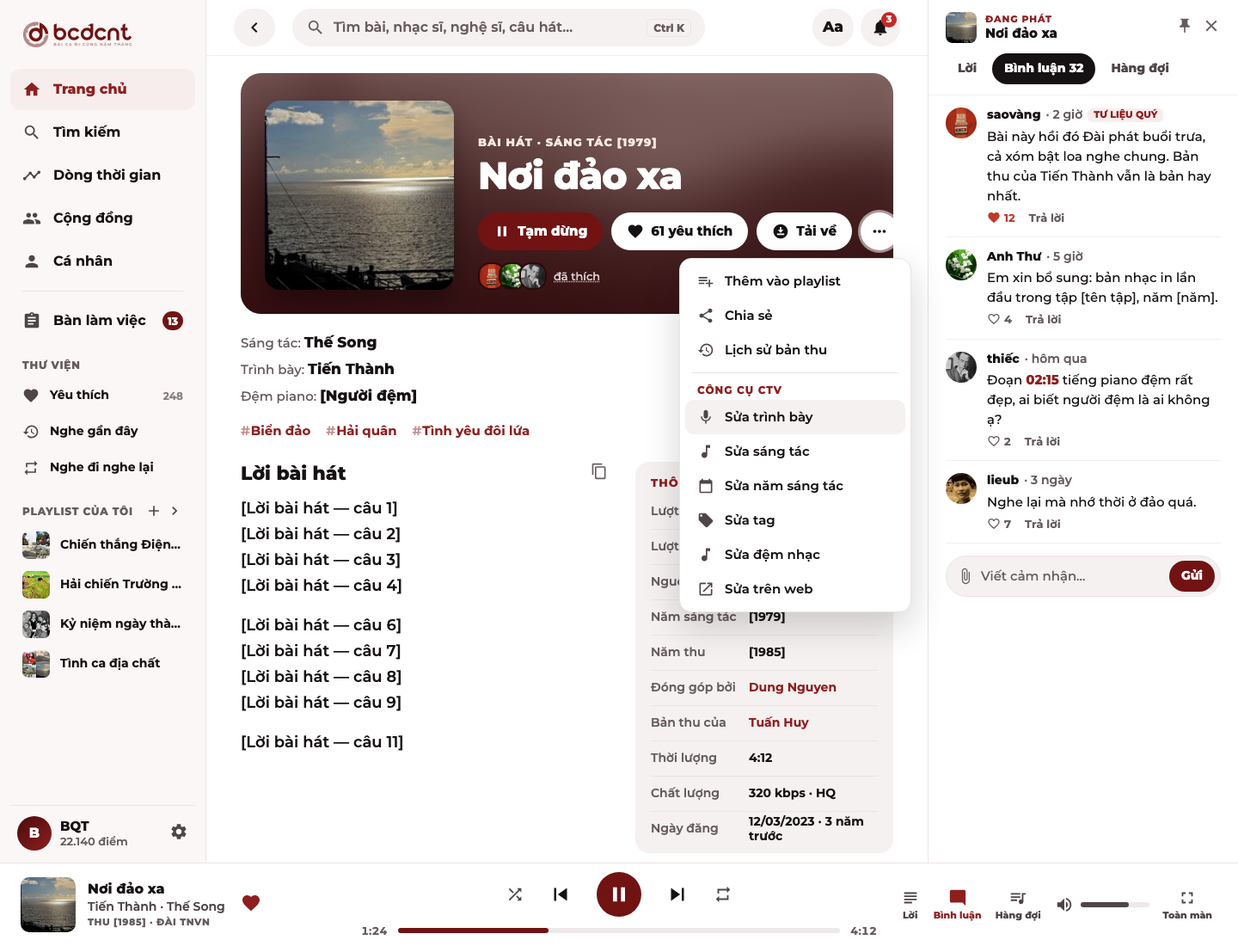
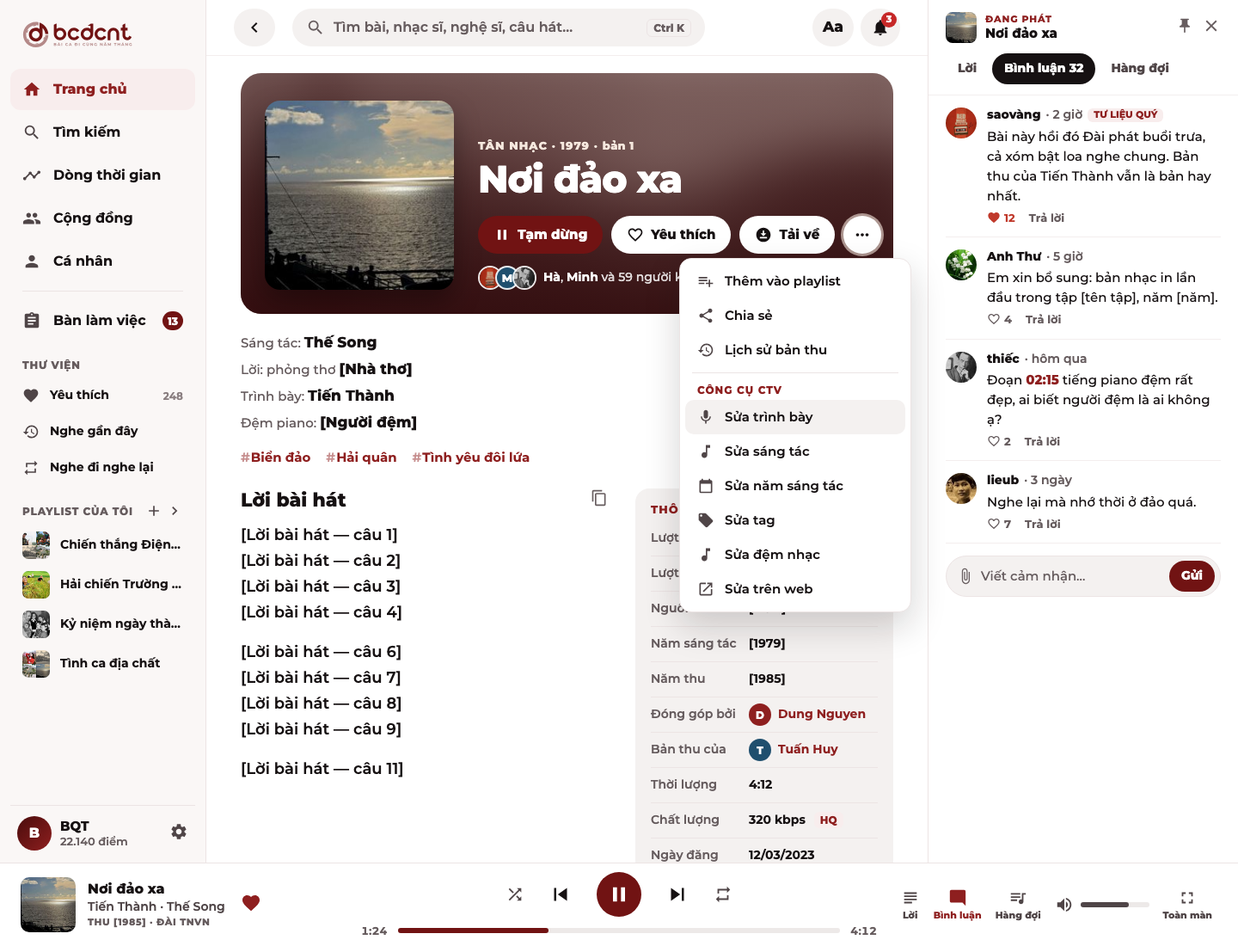
design(canvas): đồng bộ đầu trang + Thông tin bản thu sang các màn Bài hát liên quan

diff --git a/design/canvas/project/Desktop_BaiHat_Menu.dc.html b/design/canvas/project/Desktop_BaiHat_Menu.dc.html
@@ -34,13 +34,13 @@
 <!-- Khớp app (commit 7873e84): băng tối 300 = ảnh bài mờ + nhuộm; ảnh 220 trái; loại · năm sáng tác; tên 44; nút Tạm dừng / Yêu thích / Tải về / ⋯ (Lưu, Chia sẻ, Bản thu trong ⋯); "đã thích" ngay dưới nút. Dưới băng: dòng tác giả, tag; KHÔNG còn dòng lượt nghe/tải/ngày đăng (đã ở Thông tin bản thu) -->
 <div style="height: 280px; border-radius: 24px; overflow: hidden; position: relative"><img src="/_blob/15d021a625e44f0e9ff37aae395a5ec2" alt="" style="position: absolute; inset: -40px; width: calc(100% + 80px); height: calc(100% + 80px); object-fit: cover; filter: url(#brandTint) blur(28px)"><span style="position: absolute; inset: 0; background: linear-gradient(180deg, rgba(46,8,10,0.35), rgba(46,8,10,0.9))"></span>
 <div style="position: absolute; inset: 28px; display: flex; align-items: flex-end; gap: 28px; color: #fff"><img src="/_blob/15d021a625e44f0e9ff37aae395a5ec2" alt="" style="width: 220px; height: 220px; border-radius: 18px; object-fit: cover; box-shadow: 0 14px 30px rgba(0,0,0,0.35)">
-<div style="flex: 1; min-width: 0"><div style="font-size: 13px; font-weight: 800; letter-spacing: 1px; color: #F6E8DE">BÀI HÁT · SÁNG TÁC [1979]</div><div style="margin-top: 8px; font-size: 44px; font-weight: 800; letter-spacing: -0.9px; line-height: 1.08">Nơi đảo xa</div>
-<div style="margin-top: 18px; display: flex; gap: 10px"><span style="height: 44px; padding: 0 18px; border-radius: 22px; display: inline-flex; align-items: center; gap: 8px; font-size: 15px; font-weight: 800; white-space: nowrap; background: #711313; color: #fff"><svg width="20" height="20" viewBox="0 0 24 24" fill="currentColor" aria-hidden="true" style="flex-shrink: 0"><path d="M6 19h4V5H6v14zm8-14v14h4V5h-4z"></path></svg>Tạm dừng</span><span style="height: 44px; padding: 0 18px; border-radius: 22px; display: inline-flex; align-items: center; gap: 8px; font-size: 15px; font-weight: 800; white-space: nowrap; background: #fff; color: #161112"><svg width="20" height="20" viewBox="0 0 24 24" fill="currentColor" aria-hidden="true" style="flex-shrink: 0"><path d="M12 21.35l-1.45-1.32C5.4 15.36 2 12.28 2 8.5 2 5.42 4.42 3 7.5 3c1.74 0 3.41.81 4.5 2.09C13.09 3.81 14.76 3 16.5 3 19.58 3 22 5.42 22 8.5c0 3.78-3.4 6.86-8.55 11.54L12 21.35z"></path></svg>61 yêu thích</span><span style="height: 44px; padding: 0 18px; border-radius: 22px; display: inline-flex; align-items: center; gap: 8px; font-size: 15px; font-weight: 800; white-space: nowrap; background: #fff; color: #161112"><svg width="20" height="20" viewBox="0 0 24 24" fill="currentColor" aria-hidden="true" style="flex-shrink: 0"><path d="M12 2C6.49 2 2 6.49 2 12s4.49 10 10 10 10-4.49 10-10S17.51 2 12 2zm-1 8V6h2v4h3l-4 4-4-4h3zm6 7H7v-2h10v2z"></path></svg>Tải về</span><span style="width: 44px; height: 44px; flex-shrink: 0; border-radius: 22px; background: #fff; color: #161112; box-shadow: 0 0 0 3px rgba(246,232,222,0.6); display: flex; align-items: center; justify-content: center"><svg width="22" height="22" viewBox="0 0 24 24" fill="currentColor" aria-hidden="true" style="flex-shrink: 0"><path d="M6 10c-1.1 0-2 .9-2 2s.9 2 2 2 2-.9 2-2-.9-2-2-2zm12 0c-1.1 0-2 .9-2 2s.9 2 2 2 2-.9 2-2-.9-2-2-2zm-6 0c-1.1 0-2 .9-2 2s.9 2 2 2 2-.9 2-2-.9-2-2-2z"></path></svg></span></div>
-<div style="margin-top: 14px; display: flex; align-items: center; gap: 8px"><span style="display: flex"><img src="/_blob/82eaabf5353f0932631acc5c429f9aef" alt="" style="width: 28px; height: 28px; border-radius: 14px; object-fit: cover; border: 2px solid #2E080A; margin-left: 0px"><img src="/_blob/7779dbc5b942512dff4ec7683c11c896" alt="" style="width: 28px; height: 28px; border-radius: 14px; object-fit: cover; border: 2px solid #2E080A; margin-left: -8px"><img src="/_blob/a97d0f68f2204caebbee0ae2a5197797" alt="" style="width: 28px; height: 28px; border-radius: 14px; object-fit: cover; border: 2px solid #2E080A; margin-left: -8px"></span><span style="font-size: 13px; color: rgba(255,255,255,0.8); text-decoration: underline dotted">đã thích</span></div></div></div></div>
-<div style="margin-top: 18px"><div style="font-size: 15px; line-height: 30px; color: #665C5E">Sáng tác: <span style="font-size: 17px; font-weight: 800; color: #161112">Thế Song</span></div><div style="font-size: 15px; line-height: 30px; color: #665C5E">Trình bày: <span style="font-size: 17px; font-weight: 800; color: #161112">Tiến Thành</span></div><div style="font-size: 15px; line-height: 30px; color: #665C5E">Đệm piano: <span style="font-size: 17px; font-weight: 800; color: #161112">[Người đệm]</span></div></div>
+<div style="flex: 1; min-width: 0"><div style="font-size: 13px; font-weight: 800; letter-spacing: 1px; color: #F6E8DE">TÂN NHẠC · 1979 · <span style="text-transform: none; letter-spacing: 0.3px">bản 1</span></div><div style="margin-top: 8px; font-size: 44px; font-weight: 800; letter-spacing: -0.9px; line-height: 1.08">Nơi đảo xa</div>
+<div style="margin-top: 18px; display: flex; gap: 10px"><span style="height: 44px; padding: 0 18px; border-radius: 22px; display: inline-flex; align-items: center; gap: 8px; font-size: 15px; font-weight: 800; white-space: nowrap; background: #711313; color: #fff"><svg width="20" height="20" viewBox="0 0 24 24" fill="currentColor" aria-hidden="true" style="flex-shrink: 0"><path d="M6 19h4V5H6v14zm8-14v14h4V5h-4z"></path></svg>Tạm dừng</span><span style="height: 44px; padding: 0 18px; border-radius: 22px; display: inline-flex; align-items: center; gap: 8px; font-size: 15px; font-weight: 800; white-space: nowrap; background: #fff; color: #161112"><svg width="20" height="20" viewBox="0 0 24 24" fill="currentColor" aria-hidden="true" style="flex-shrink: 0"><path d="M16.5 3c-1.74 0-3.41.81-4.5 2.09C10.91 3.81 9.24 3 7.5 3 4.42 3 2 5.42 2 8.5c0 3.78 3.4 6.86 8.55 11.54L12 21.35l1.45-1.32C18.6 15.36 22 12.28 22 8.5 22 5.42 19.58 3 16.5 3zm-4.4 15.55l-.1.1-.1-.1C7.14 14.24 4 11.39 4 8.5 4 6.5 5.5 5 7.5 5c1.54 0 3.04.99 3.57 2.36h1.87C13.46 5.99 14.96 5 16.5 5c2 0 3.5 1.5 3.5 3.5 0 2.89-3.14 5.74-7.9 10.05z"></path></svg>Yêu thích</span><span style="height: 44px; padding: 0 18px; border-radius: 22px; display: inline-flex; align-items: center; gap: 8px; font-size: 15px; font-weight: 800; white-space: nowrap; background: #fff; color: #161112"><svg width="20" height="20" viewBox="0 0 24 24" fill="currentColor" aria-hidden="true" style="flex-shrink: 0"><path d="M12 2C6.49 2 2 6.49 2 12s4.49 10 10 10 10-4.49 10-10S17.51 2 12 2zm-1 8V6h2v4h3l-4 4-4-4h3zm6 7H7v-2h10v2z"></path></svg>Tải về</span><span style="width: 44px; height: 44px; flex-shrink: 0; border-radius: 22px; background: #fff; color: #161112; box-shadow: 0 0 0 3px rgba(246,232,222,0.6); display: flex; align-items: center; justify-content: center"><svg width="22" height="22" viewBox="0 0 24 24" fill="currentColor" aria-hidden="true" style="flex-shrink: 0"><path d="M6 10c-1.1 0-2 .9-2 2s.9 2 2 2 2-.9 2-2-.9-2-2-2zm12 0c-1.1 0-2 .9-2 2s.9 2 2 2 2-.9 2-2-.9-2-2-2zm-6 0c-1.1 0-2 .9-2 2s.9 2 2 2 2-.9 2-2-.9-2-2-2z"></path></svg></span></div>
+<div style="margin-top: 14px; display: flex; align-items: center; gap: 8px"><span style="display: flex"><img src="/_blob/82eaabf5353f0932631acc5c429f9aef" alt="" style="width: 28px; height: 28px; border-radius: 14px; object-fit: cover; border: 2px solid rgba(255,255,255,0.9); box-sizing: border-box; margin-left: 0px"><span style="width: 28px; height: 28px; border-radius: 14px; box-sizing: border-box; background: #1F4F6E; color: #fff; font-size: 13px; font-weight: 800; display: flex; align-items: center; justify-content: center; border: 2px solid rgba(255,255,255,0.9); margin-left: -8px">M</span><img src="/_blob/a97d0f68f2204caebbee0ae2a5197797" alt="" style="width: 28px; height: 28px; border-radius: 14px; object-fit: cover; border: 2px solid rgba(255,255,255,0.9); box-sizing: border-box; margin-left: -8px"></span><span style="font-size: 14px; color: rgba(255,255,255,0.85)"><b style="color: #fff">Hà</b>, <b style="color: #fff">Minh</b> và 59 người khác đã thích</span></div></div></div></div>
+<div style="margin-top: 18px"><div style="font-size: 15px; line-height: 30px; color: #665C5E">Sáng tác: <span style="font-size: 17px; font-weight: 800; color: #161112">Thế Song</span></div><div style="font-size: 15px; line-height: 30px; color: #665C5E">Lời: phỏng thơ <span style="font-size: 17px; font-weight: 800; color: #161112">[Nhà thơ]</span></div><div style="font-size: 15px; line-height: 30px; color: #665C5E">Trình bày: <span style="font-size: 17px; font-weight: 800; color: #161112">Tiến Thành</span></div><div style="font-size: 15px; line-height: 30px; color: #665C5E">Đệm piano: <span style="font-size: 17px; font-weight: 800; color: #161112">[Người đệm]</span></div></div>
 <div style="margin-top: 16px; display: flex; gap: 18px"><span style="font-size: 15px; font-weight: 700; color: #8E1F1F"><span style="opacity: 0.5; margin-right: 1px">#</span>Biển đảo</span><span style="font-size: 15px; font-weight: 700; color: #8E1F1F"><span style="opacity: 0.5; margin-right: 1px">#</span>Hải quân</span><span style="font-size: 15px; font-weight: 700; color: #8E1F1F"><span style="opacity: 0.5; margin-right: 1px">#</span>Tình yêu đôi lứa</span></div>
 <div style="margin-top: 26px; display: flex; gap: 32px"><div style="flex: 1; min-width: 0"><div style="display: flex; align-items: center"><h2 style="margin: 0; flex: 1; font-size: 22px; font-weight: 800">Lời bài hát</h2><span style="color: #665C5E"><svg width="20" height="20" viewBox="0 0 24 24" fill="currentColor" aria-hidden="true" style="flex-shrink: 0"><path d="M16 1H4c-1.1 0-2 .9-2 2v14h2V3h12V1zm3 4H8c-1.1 0-2 .9-2 2v14c0 1.1.9 2 2 2h11c1.1 0 2-.9 2-2V7c0-1.1-.9-2-2-2zm0 16H8V7h11v14z"></path></svg></span></div><div style="margin-top: 12px; font-size: 18px; line-height: 30px; font-weight: 600"><div>[Lời bài hát — câu 1]</div><div>[Lời bài hát — câu 2]</div><div>[Lời bài hát — câu 3]</div><div>[Lời bài hát — câu 4]</div><div style="height: 16px"></div><div>[Lời bài hát — câu 6]</div><div>[Lời bài hát — câu 7]</div><div>[Lời bài hát — câu 8]</div><div>[Lời bài hát — câu 9]</div><div style="height: 16px"></div><div>[Lời bài hát — câu 11]</div></div></div>
-<div style="width: 300px; flex-shrink: 0"><div style="border-radius: 16px; background: #F4F1F0; padding: 16px 18px 8px"><div style="font-size: 13px; font-weight: 800; letter-spacing: 1px; color: #8E1F1F">THÔNG TIN BẢN THU</div><div style="margin-top: 6px"><div style="display: flex; gap: 10px; min-height: 40px; align-items: center; border-bottom: 1px solid #ECE4E4; font-size: 14px"><span style="width: 104px; flex-shrink: 0; font-weight: 600; color: #665C5E">Lượt nghe</span><span style="font-weight: 700; color: #161112">241.532</span></div><div style="display: flex; gap: 10px; min-height: 40px; align-items: center; border-bottom: 1px solid #ECE4E4; font-size: 14px"><span style="width: 104px; flex-shrink: 0; font-weight: 600; color: #665C5E">Lượt tải</span><span style="font-weight: 700; color: #161112">64.210</span></div><div style="display: flex; gap: 10px; min-height: 40px; align-items: center; border-bottom: 1px solid #ECE4E4; font-size: 14px"><span style="width: 104px; flex-shrink: 0; font-weight: 600; color: #665C5E">Nguồn</span><span style="font-weight: 700; color: #161112">[VOV]</span></div><div style="display: flex; gap: 10px; min-height: 40px; align-items: center; border-bottom: 1px solid #ECE4E4; font-size: 14px"><span style="width: 104px; flex-shrink: 0; font-weight: 600; color: #665C5E">Năm sáng tác</span><span style="font-weight: 700; color: #161112">[1979]</span></div><div style="display: flex; gap: 10px; min-height: 40px; align-items: center; border-bottom: 1px solid #ECE4E4; font-size: 14px"><span style="width: 104px; flex-shrink: 0; font-weight: 600; color: #665C5E">Năm thu</span><span style="font-weight: 700; color: #161112">[1985]</span></div><div style="display: flex; gap: 10px; min-height: 40px; align-items: center; border-bottom: 1px solid #ECE4E4; font-size: 14px"><span style="width: 104px; flex-shrink: 0; font-weight: 600; color: #665C5E">Đóng góp bởi</span><span style="font-weight: 700; color: #8E1F1F">Dung Nguyen</span></div><div style="display: flex; gap: 10px; min-height: 40px; align-items: center; border-bottom: 1px solid #ECE4E4; font-size: 14px"><span style="width: 104px; flex-shrink: 0; font-weight: 600; color: #665C5E">Bản thu của</span><span style="font-weight: 700; color: #8E1F1F">Tuấn Huy</span></div><div style="display: flex; gap: 10px; min-height: 40px; align-items: center; border-bottom: 1px solid #ECE4E4; font-size: 14px"><span style="width: 104px; flex-shrink: 0; font-weight: 600; color: #665C5E">Thời lượng</span><span style="font-weight: 700; color: #161112">4:12</span></div><div style="display: flex; gap: 10px; min-height: 40px; align-items: center; border-bottom: 1px solid #ECE4E4; font-size: 14px"><span style="width: 104px; flex-shrink: 0; font-weight: 600; color: #665C5E">Chất lượng</span><span style="font-weight: 700; color: #161112">320 kbps · HQ</span></div><div style="display: flex; gap: 10px; min-height: 40px; align-items: center; font-size: 14px"><span style="width: 104px; flex-shrink: 0; font-weight: 600; color: #665C5E">Ngày đăng</span><span style="font-weight: 700; color: #161112">12/03/2023 · 3 năm trước</span></div></div></div></div></div></div></main></div><!-- Ngăn phải 360 "Bên cạnh bài đang phát": Lời · Bình luận · Hàng đợi. Mặc định theo bài đang phát (ghim để giữ bài đang đọc). ≥1680 luôn mở; 1280–1679 bật/tắt; <1280 phủ lên nội dung, Esc đóng -->
+<div style="width: 300px; flex-shrink: 0"><div style="border-radius: 16px; background: #F4F1F0; padding: 16px 18px 8px"><div style="font-size: 13px; font-weight: 800; letter-spacing: 1px; color: #8E1F1F">THÔNG TIN BẢN THU</div><div style="margin-top: 6px"><div style="display: flex; gap: 10px; min-height: 40px; align-items: center; border-bottom: 1px solid #ECE4E4; font-size: 14px"><span style="width: 104px; flex-shrink: 0; font-weight: 600; color: #665C5E">Lượt nghe</span><span style="font-weight: 700; color: #161112">241.532</span></div><div style="display: flex; gap: 10px; min-height: 40px; align-items: center; border-bottom: 1px solid #ECE4E4; font-size: 14px"><span style="width: 104px; flex-shrink: 0; font-weight: 600; color: #665C5E">Lượt tải</span><span style="font-weight: 700; color: #161112">64.210</span></div><div style="display: flex; gap: 10px; min-height: 40px; align-items: center; border-bottom: 1px solid #ECE4E4; font-size: 14px"><span style="width: 104px; flex-shrink: 0; font-weight: 600; color: #665C5E">Nguồn</span><span style="font-weight: 700; color: #161112">[VOV]</span></div><div style="display: flex; gap: 10px; min-height: 40px; align-items: center; border-bottom: 1px solid #ECE4E4; font-size: 14px"><span style="width: 104px; flex-shrink: 0; font-weight: 600; color: #665C5E">Năm sáng tác</span><span style="font-weight: 700; color: #161112">[1979]</span></div><div style="display: flex; gap: 10px; min-height: 40px; align-items: center; border-bottom: 1px solid #ECE4E4; font-size: 14px"><span style="width: 104px; flex-shrink: 0; font-weight: 600; color: #665C5E">Năm thu</span><span style="font-weight: 700; color: #161112">[1985]</span></div><div style="display: flex; gap: 10px; min-height: 40px; align-items: center; border-bottom: 1px solid #ECE4E4; font-size: 14px"><span style="width: 104px; flex-shrink: 0; font-weight: 600; color: #665C5E">Đóng góp bởi</span><span style="display: inline-flex; align-items: center; gap: 8px; font-weight: 700; color: #8E1F1F"><span style="width: 26px; height: 26px; border-radius: 13px; background: #8E1F1F; color: #FFF; font-size: 12px; font-weight: 800; display: inline-flex; align-items: center; justify-content: center">D</span>Dung Nguyen</span></div><div style="display: flex; gap: 10px; min-height: 40px; align-items: center; border-bottom: 1px solid #ECE4E4; font-size: 14px"><span style="width: 104px; flex-shrink: 0; font-weight: 600; color: #665C5E">Bản thu của</span><span style="display: inline-flex; align-items: center; gap: 8px; font-weight: 700; color: #8E1F1F"><span style="width: 26px; height: 26px; border-radius: 13px; background: #1F4F6E; color: #FFF; font-size: 12px; font-weight: 800; display: inline-flex; align-items: center; justify-content: center">T</span>Tuấn Huy</span></div><div style="display: flex; gap: 10px; min-height: 40px; align-items: center; border-bottom: 1px solid #ECE4E4; font-size: 14px"><span style="width: 104px; flex-shrink: 0; font-weight: 600; color: #665C5E">Thời lượng</span><span style="font-weight: 700; color: #161112">4:12</span></div><div style="display: flex; gap: 10px; min-height: 40px; align-items: center; border-bottom: 1px solid #ECE4E4; font-size: 14px"><span style="width: 104px; flex-shrink: 0; font-weight: 600; color: #665C5E">Chất lượng</span><span style="font-weight: 700; color: #161112">320 kbps <span style="margin-left: 6px; padding: 2px 7px; border-radius: 6px; background: #F8EDED; color: #8E1F1F; font-size: 12px; font-weight: 800">HQ</span></span></div><div style="display: flex; gap: 10px; min-height: 40px; align-items: center; font-size: 14px"><span style="width: 104px; flex-shrink: 0; font-weight: 600; color: #665C5E">Ngày đăng</span><span style="font-weight: 700; color: #161112">12/03/2023</span></div></div></div></div></div></div></main></div><!-- Ngăn phải 360 "Bên cạnh bài đang phát": Lời · Bình luận · Hàng đợi. Mặc định theo bài đang phát (ghim để giữ bài đang đọc). ≥1680 luôn mở; 1280–1679 bật/tắt; <1280 phủ lên nội dung, Esc đóng -->
 <aside style="width: 360px; flex-shrink: 0; border-left: 1px solid #ECE4E4; display: flex; flex-direction: column; overflow: hidden">
 <div style="padding: 14px 20px 12px; border-bottom: 1px solid #F3EEEE"><div style="display: flex; align-items: center; gap: 10px"><img src="/_blob/15d021a625e44f0e9ff37aae395a5ec2" alt="" style="width: 36px; height: 36px; border-radius: 8px; object-fit: cover"><span style="flex: 1; min-width: 0; display: flex; flex-direction: column"><span style="font-size: 11px; font-weight: 800; letter-spacing: 0.8px; color: #8E1F1F">ĐANG PHÁT</span><span style="font-size: 15px; font-weight: 800">Nơi đảo xa</span></span><span title="Ghim bài này" style="color: #665C5E"><svg width="20" height="20" viewBox="0 0 24 24" fill="currentColor" aria-hidden="true" style="flex-shrink: 0"><path d="M16 9V4h1c.55 0 1-.45 1-1s-.45-1-1-1H7c-.55 0-1 .45-1 1s.45 1 1 1h1v5c0 1.66-1.34 3-3 3v2h5.97v7l1 1 1-1v-7H19v-2c-1.66 0-3-1.34-3-3z"></path></svg></span><span style="color: #665C5E"><svg width="22" height="22" viewBox="0 0 24 24" fill="currentColor" aria-hidden="true" style="flex-shrink: 0"><path d="M19 6.41L17.59 5 12 10.59 6.41 5 5 6.41 10.59 12 5 17.59 6.41 19 12 13.41 17.59 19 19 17.59 13.41 12z"></path></svg></span></div>
 <div style="margin-top: 12px; display: flex; gap: 4px"><span style="height: 36px; padding: 0 14px; border-radius: 18px; display: flex; align-items: center; white-space: nowrap; font-size: 14px; font-weight: 800; color: #4F4547">Lời</span><span style="height: 36px; padding: 0 14px; border-radius: 18px; display: flex; align-items: center; white-space: nowrap; font-size: 14px; font-weight: 800; background: #161112; color: #fff">Bình luận 32</span><span style="height: 36px; padding: 0 14px; border-radius: 18px; display: flex; align-items: center; white-space: nowrap; font-size: 14px; font-weight: 800; color: #4F4547">Hàng đợi</span></div></div>

diff --git a/design/canvas/project/Desktop_BaiHat_Rong.dc.html b/design/canvas/project/Desktop_BaiHat_Rong.dc.html
@@ -34,13 +34,13 @@
 <!-- Khớp app (commit 7873e84): băng tối 300 = ảnh bài mờ + nhuộm; ảnh 220 trái; loại · năm sáng tác; tên 44; nút Tạm dừng / Yêu thích / Tải về / ⋯ (Lưu, Chia sẻ, Bản thu trong ⋯); "đã thích" ngay dưới nút. Dưới băng: dòng tác giả, tag; KHÔNG còn dòng lượt nghe/tải/ngày đăng (đã ở Thông tin bản thu) -->
 <div style="height: 280px; border-radius: 24px; overflow: hidden; position: relative"><img src="/_blob/15d021a625e44f0e9ff37aae395a5ec2" alt="" style="position: absolute; inset: -40px; width: calc(100% + 80px); height: calc(100% + 80px); object-fit: cover; filter: url(#brandTint) blur(28px)"><span style="position: absolute; inset: 0; background: linear-gradient(180deg, rgba(46,8,10,0.35), rgba(46,8,10,0.9))"></span>
 <div style="position: absolute; inset: 28px; display: flex; align-items: flex-end; gap: 28px; color: #fff"><img src="/_blob/15d021a625e44f0e9ff37aae395a5ec2" alt="" style="width: 220px; height: 220px; border-radius: 18px; object-fit: cover; box-shadow: 0 14px 30px rgba(0,0,0,0.35)">
-<div style="flex: 1; min-width: 0"><div style="font-size: 13px; font-weight: 800; letter-spacing: 1px; color: #F6E8DE">BÀI HÁT · SÁNG TÁC [1979]</div><div style="margin-top: 8px; font-size: 44px; font-weight: 800; letter-spacing: -0.9px; line-height: 1.08">Nơi đảo xa</div>
-<div style="margin-top: 18px; display: flex; gap: 10px"><span style="height: 44px; padding: 0 18px; border-radius: 22px; display: inline-flex; align-items: center; gap: 8px; font-size: 15px; font-weight: 800; white-space: nowrap; background: #711313; color: #fff"><svg width="20" height="20" viewBox="0 0 24 24" fill="currentColor" aria-hidden="true" style="flex-shrink: 0"><path d="M6 19h4V5H6v14zm8-14v14h4V5h-4z"></path></svg>Tạm dừng</span><span style="height: 44px; padding: 0 18px; border-radius: 22px; display: inline-flex; align-items: center; gap: 8px; font-size: 15px; font-weight: 800; white-space: nowrap; background: #fff; color: #161112"><svg width="20" height="20" viewBox="0 0 24 24" fill="currentColor" aria-hidden="true" style="flex-shrink: 0"><path d="M12 21.35l-1.45-1.32C5.4 15.36 2 12.28 2 8.5 2 5.42 4.42 3 7.5 3c1.74 0 3.41.81 4.5 2.09C13.09 3.81 14.76 3 16.5 3 19.58 3 22 5.42 22 8.5c0 3.78-3.4 6.86-8.55 11.54L12 21.35z"></path></svg>61 yêu thích</span><span style="height: 44px; padding: 0 18px; border-radius: 22px; display: inline-flex; align-items: center; gap: 8px; font-size: 15px; font-weight: 800; white-space: nowrap; background: #fff; color: #161112"><svg width="20" height="20" viewBox="0 0 24 24" fill="currentColor" aria-hidden="true" style="flex-shrink: 0"><path d="M12 2C6.49 2 2 6.49 2 12s4.49 10 10 10 10-4.49 10-10S17.51 2 12 2zm-1 8V6h2v4h3l-4 4-4-4h3zm6 7H7v-2h10v2z"></path></svg>Tải về</span><span style="width: 44px; height: 44px; flex-shrink: 0; border-radius: 22px; background: #fff; color: #161112; display: flex; align-items: center; justify-content: center"><svg width="22" height="22" viewBox="0 0 24 24" fill="currentColor" aria-hidden="true" style="flex-shrink: 0"><path d="M6 10c-1.1 0-2 .9-2 2s.9 2 2 2 2-.9 2-2-.9-2-2-2zm12 0c-1.1 0-2 .9-2 2s.9 2 2 2 2-.9 2-2-.9-2-2-2zm-6 0c-1.1 0-2 .9-2 2s.9 2 2 2 2-.9 2-2-.9-2-2-2z"></path></svg></span></div>
-<div style="margin-top: 14px; display: flex; align-items: center; gap: 8px"><span style="display: flex"><img src="/_blob/82eaabf5353f0932631acc5c429f9aef" alt="" style="width: 28px; height: 28px; border-radius: 14px; object-fit: cover; border: 2px solid #2E080A; margin-left: 0px"><img src="/_blob/7779dbc5b942512dff4ec7683c11c896" alt="" style="width: 28px; height: 28px; border-radius: 14px; object-fit: cover; border: 2px solid #2E080A; margin-left: -8px"><img src="/_blob/a97d0f68f2204caebbee0ae2a5197797" alt="" style="width: 28px; height: 28px; border-radius: 14px; object-fit: cover; border: 2px solid #2E080A; margin-left: -8px"></span><span style="font-size: 13px; color: rgba(255,255,255,0.8); text-decoration: underline dotted">đã thích</span></div></div></div></div>
-<div style="margin-top: 18px"><div style="font-size: 15px; line-height: 30px; color: #665C5E">Sáng tác: <span style="font-size: 17px; font-weight: 800; color: #161112">Thế Song</span></div><div style="font-size: 15px; line-height: 30px; color: #665C5E">Trình bày: <span style="font-size: 17px; font-weight: 800; color: #161112">Tiến Thành</span></div><div style="font-size: 15px; line-height: 30px; color: #665C5E">Đệm piano: <span style="font-size: 17px; font-weight: 800; color: #161112">[Người đệm]</span></div></div>
+<div style="flex: 1; min-width: 0"><div style="font-size: 13px; font-weight: 800; letter-spacing: 1px; color: #F6E8DE">TÂN NHẠC · 1979 · <span style="text-transform: none; letter-spacing: 0.3px">bản 1</span></div><div style="margin-top: 8px; font-size: 44px; font-weight: 800; letter-spacing: -0.9px; line-height: 1.08">Nơi đảo xa</div>
+<div style="margin-top: 18px; display: flex; gap: 10px"><span style="height: 44px; padding: 0 18px; border-radius: 22px; display: inline-flex; align-items: center; gap: 8px; font-size: 15px; font-weight: 800; white-space: nowrap; background: #711313; color: #fff"><svg width="20" height="20" viewBox="0 0 24 24" fill="currentColor" aria-hidden="true" style="flex-shrink: 0"><path d="M6 19h4V5H6v14zm8-14v14h4V5h-4z"></path></svg>Tạm dừng</span><span style="height: 44px; padding: 0 18px; border-radius: 22px; display: inline-flex; align-items: center; gap: 8px; font-size: 15px; font-weight: 800; white-space: nowrap; background: #fff; color: #161112"><svg width="20" height="20" viewBox="0 0 24 24" fill="currentColor" aria-hidden="true" style="flex-shrink: 0"><path d="M16.5 3c-1.74 0-3.41.81-4.5 2.09C10.91 3.81 9.24 3 7.5 3 4.42 3 2 5.42 2 8.5c0 3.78 3.4 6.86 8.55 11.54L12 21.35l1.45-1.32C18.6 15.36 22 12.28 22 8.5 22 5.42 19.58 3 16.5 3zm-4.4 15.55l-.1.1-.1-.1C7.14 14.24 4 11.39 4 8.5 4 6.5 5.5 5 7.5 5c1.54 0 3.04.99 3.57 2.36h1.87C13.46 5.99 14.96 5 16.5 5c2 0 3.5 1.5 3.5 3.5 0 2.89-3.14 5.74-7.9 10.05z"></path></svg>Yêu thích</span><span style="height: 44px; padding: 0 18px; border-radius: 22px; display: inline-flex; align-items: center; gap: 8px; font-size: 15px; font-weight: 800; white-space: nowrap; background: #fff; color: #161112"><svg width="20" height="20" viewBox="0 0 24 24" fill="currentColor" aria-hidden="true" style="flex-shrink: 0"><path d="M12 2C6.49 2 2 6.49 2 12s4.49 10 10 10 10-4.49 10-10S17.51 2 12 2zm-1 8V6h2v4h3l-4 4-4-4h3zm6 7H7v-2h10v2z"></path></svg>Tải về</span><span style="width: 44px; height: 44px; flex-shrink: 0; border-radius: 22px; background: #fff; color: #161112; display: flex; align-items: center; justify-content: center"><svg width="22" height="22" viewBox="0 0 24 24" fill="currentColor" aria-hidden="true" style="flex-shrink: 0"><path d="M6 10c-1.1 0-2 .9-2 2s.9 2 2 2 2-.9 2-2-.9-2-2-2zm12 0c-1.1 0-2 .9-2 2s.9 2 2 2 2-.9 2-2-.9-2-2-2zm-6 0c-1.1 0-2 .9-2 2s.9 2 2 2 2-.9 2-2-.9-2-2-2z"></path></svg></span></div>
+<div style="margin-top: 14px; display: flex; align-items: center; gap: 8px"><span style="display: flex"><img src="/_blob/82eaabf5353f0932631acc5c429f9aef" alt="" style="width: 28px; height: 28px; border-radius: 14px; object-fit: cover; border: 2px solid rgba(255,255,255,0.9); box-sizing: border-box; margin-left: 0px"><span style="width: 28px; height: 28px; border-radius: 14px; box-sizing: border-box; background: #1F4F6E; color: #fff; font-size: 13px; font-weight: 800; display: flex; align-items: center; justify-content: center; border: 2px solid rgba(255,255,255,0.9); margin-left: -8px">M</span><img src="/_blob/a97d0f68f2204caebbee0ae2a5197797" alt="" style="width: 28px; height: 28px; border-radius: 14px; object-fit: cover; border: 2px solid rgba(255,255,255,0.9); box-sizing: border-box; margin-left: -8px"></span><span style="font-size: 14px; color: rgba(255,255,255,0.85)"><b style="color: #fff">Hà</b>, <b style="color: #fff">Minh</b> và 59 người khác đã thích</span></div></div></div></div>
+<div style="margin-top: 18px"><div style="font-size: 15px; line-height: 30px; color: #665C5E">Sáng tác: <span style="font-size: 17px; font-weight: 800; color: #161112">Thế Song</span></div><div style="font-size: 15px; line-height: 30px; color: #665C5E">Lời: phỏng thơ <span style="font-size: 17px; font-weight: 800; color: #161112">[Nhà thơ]</span></div><div style="font-size: 15px; line-height: 30px; color: #665C5E">Trình bày: <span style="font-size: 17px; font-weight: 800; color: #161112">Tiến Thành</span></div><div style="font-size: 15px; line-height: 30px; color: #665C5E">Đệm piano: <span style="font-size: 17px; font-weight: 800; color: #161112">[Người đệm]</span></div></div>
 <div style="margin-top: 16px; display: flex; gap: 18px"><span style="font-size: 15px; font-weight: 700; color: #8E1F1F"><span style="opacity: 0.5; margin-right: 1px">#</span>Biển đảo</span><span style="font-size: 15px; font-weight: 700; color: #8E1F1F"><span style="opacity: 0.5; margin-right: 1px">#</span>Hải quân</span><span style="font-size: 15px; font-weight: 700; color: #8E1F1F"><span style="opacity: 0.5; margin-right: 1px">#</span>Tình yêu đôi lứa</span></div>
 <div style="margin-top: 26px; display: flex; gap: 32px"><div style="flex: 1; min-width: 0"><div style="display: flex; align-items: center"><h2 style="margin: 0; flex: 1; font-size: 22px; font-weight: 800">Lời bài hát</h2><span style="color: #665C5E"><svg width="20" height="20" viewBox="0 0 24 24" fill="currentColor" aria-hidden="true" style="flex-shrink: 0"><path d="M16 1H4c-1.1 0-2 .9-2 2v14h2V3h12V1zm3 4H8c-1.1 0-2 .9-2 2v14c0 1.1.9 2 2 2h11c1.1 0 2-.9 2-2V7c0-1.1-.9-2-2-2zm0 16H8V7h11v14z"></path></svg></span></div><div style="margin-top: 12px; font-size: 18px; line-height: 30px; font-weight: 600"><div>[Lời bài hát — câu 1]</div><div>[Lời bài hát — câu 2]</div><div>[Lời bài hát — câu 3]</div><div>[Lời bài hát — câu 4]</div><div style="height: 16px"></div><div>[Lời bài hát — câu 6]</div><div>[Lời bài hát — câu 7]</div><div>[Lời bài hát — câu 8]</div><div>[Lời bài hát — câu 9]</div><div style="height: 16px"></div><div>[Lời bài hát — câu 11]</div></div></div>
-<div style="width: 300px; flex-shrink: 0"><div style="border-radius: 16px; background: #F4F1F0; padding: 16px 18px 8px"><div style="font-size: 13px; font-weight: 800; letter-spacing: 1px; color: #8E1F1F">THÔNG TIN BẢN THU</div><div style="margin-top: 6px"><div style="display: flex; gap: 10px; min-height: 40px; align-items: center; border-bottom: 1px solid #ECE4E4; font-size: 14px"><span style="width: 104px; flex-shrink: 0; font-weight: 600; color: #665C5E">Lượt nghe</span><span style="font-weight: 700; color: #161112">241.532</span></div><div style="display: flex; gap: 10px; min-height: 40px; align-items: center; border-bottom: 1px solid #ECE4E4; font-size: 14px"><span style="width: 104px; flex-shrink: 0; font-weight: 600; color: #665C5E">Lượt tải</span><span style="font-weight: 700; color: #161112">64.210</span></div><div style="display: flex; gap: 10px; min-height: 40px; align-items: center; border-bottom: 1px solid #ECE4E4; font-size: 14px"><span style="width: 104px; flex-shrink: 0; font-weight: 600; color: #665C5E">Nguồn</span><span style="font-weight: 700; color: #161112">[VOV]</span></div><div style="display: flex; gap: 10px; min-height: 40px; align-items: center; border-bottom: 1px solid #ECE4E4; font-size: 14px"><span style="width: 104px; flex-shrink: 0; font-weight: 600; color: #665C5E">Năm sáng tác</span><span style="font-weight: 700; color: #161112">[1979]</span></div><div style="display: flex; gap: 10px; min-height: 40px; align-items: center; border-bottom: 1px solid #ECE4E4; font-size: 14px"><span style="width: 104px; flex-shrink: 0; font-weight: 600; color: #665C5E">Năm thu</span><span style="font-weight: 700; color: #161112">[1985]</span></div><div style="display: flex; gap: 10px; min-height: 40px; align-items: center; border-bottom: 1px solid #ECE4E4; font-size: 14px"><span style="width: 104px; flex-shrink: 0; font-weight: 600; color: #665C5E">Đóng góp bởi</span><span style="font-weight: 700; color: #8E1F1F">Dung Nguyen</span></div><div style="display: flex; gap: 10px; min-height: 40px; align-items: center; border-bottom: 1px solid #ECE4E4; font-size: 14px"><span style="width: 104px; flex-shrink: 0; font-weight: 600; color: #665C5E">Bản thu của</span><span style="font-weight: 700; color: #8E1F1F">Tuấn Huy</span></div><div style="display: flex; gap: 10px; min-height: 40px; align-items: center; border-bottom: 1px solid #ECE4E4; font-size: 14px"><span style="width: 104px; flex-shrink: 0; font-weight: 600; color: #665C5E">Thời lượng</span><span style="font-weight: 700; color: #161112">4:12</span></div><div style="display: flex; gap: 10px; min-height: 40px; align-items: center; border-bottom: 1px solid #ECE4E4; font-size: 14px"><span style="width: 104px; flex-shrink: 0; font-weight: 600; color: #665C5E">Chất lượng</span><span style="font-weight: 700; color: #161112">320 kbps · HQ</span></div><div style="display: flex; gap: 10px; min-height: 40px; align-items: center; font-size: 14px"><span style="width: 104px; flex-shrink: 0; font-weight: 600; color: #665C5E">Ngày đăng</span><span style="font-weight: 700; color: #161112">12/03/2023 · 3 năm trước</span></div></div></div></div></div></div></main></div><!-- Ngăn phải 360 "Bên cạnh bài đang phát": Lời · Bình luận · Hàng đợi. Mặc định theo bài đang phát (ghim để giữ bài đang đọc). ≥1680 luôn mở; 1280–1679 bật/tắt; <1280 phủ lên nội dung, Esc đóng -->
+<div style="width: 300px; flex-shrink: 0"><div style="border-radius: 16px; background: #F4F1F0; padding: 16px 18px 8px"><div style="font-size: 13px; font-weight: 800; letter-spacing: 1px; color: #8E1F1F">THÔNG TIN BẢN THU</div><div style="margin-top: 6px"><div style="display: flex; gap: 10px; min-height: 40px; align-items: center; border-bottom: 1px solid #ECE4E4; font-size: 14px"><span style="width: 104px; flex-shrink: 0; font-weight: 600; color: #665C5E">Lượt nghe</span><span style="font-weight: 700; color: #161112">241.532</span></div><div style="display: flex; gap: 10px; min-height: 40px; align-items: center; border-bottom: 1px solid #ECE4E4; font-size: 14px"><span style="width: 104px; flex-shrink: 0; font-weight: 600; color: #665C5E">Lượt tải</span><span style="font-weight: 700; color: #161112">64.210</span></div><div style="display: flex; gap: 10px; min-height: 40px; align-items: center; border-bottom: 1px solid #ECE4E4; font-size: 14px"><span style="width: 104px; flex-shrink: 0; font-weight: 600; color: #665C5E">Nguồn</span><span style="font-weight: 700; color: #161112">[VOV]</span></div><div style="display: flex; gap: 10px; min-height: 40px; align-items: center; border-bottom: 1px solid #ECE4E4; font-size: 14px"><span style="width: 104px; flex-shrink: 0; font-weight: 600; color: #665C5E">Năm sáng tác</span><span style="font-weight: 700; color: #161112">[1979]</span></div><div style="display: flex; gap: 10px; min-height: 40px; align-items: center; border-bottom: 1px solid #ECE4E4; font-size: 14px"><span style="width: 104px; flex-shrink: 0; font-weight: 600; color: #665C5E">Năm thu</span><span style="font-weight: 700; color: #161112">[1985]</span></div><div style="display: flex; gap: 10px; min-height: 40px; align-items: center; border-bottom: 1px solid #ECE4E4; font-size: 14px"><span style="width: 104px; flex-shrink: 0; font-weight: 600; color: #665C5E">Đóng góp bởi</span><span style="display: inline-flex; align-items: center; gap: 8px; font-weight: 700; color: #8E1F1F"><span style="width: 26px; height: 26px; border-radius: 13px; background: #8E1F1F; color: #FFF; font-size: 12px; font-weight: 800; display: inline-flex; align-items: center; justify-content: center">D</span>Dung Nguyen</span></div><div style="display: flex; gap: 10px; min-height: 40px; align-items: center; border-bottom: 1px solid #ECE4E4; font-size: 14px"><span style="width: 104px; flex-shrink: 0; font-weight: 600; color: #665C5E">Bản thu của</span><span style="display: inline-flex; align-items: center; gap: 8px; font-weight: 700; color: #8E1F1F"><span style="width: 26px; height: 26px; border-radius: 13px; background: #1F4F6E; color: #FFF; font-size: 12px; font-weight: 800; display: inline-flex; align-items: center; justify-content: center">T</span>Tuấn Huy</span></div><div style="display: flex; gap: 10px; min-height: 40px; align-items: center; border-bottom: 1px solid #ECE4E4; font-size: 14px"><span style="width: 104px; flex-shrink: 0; font-weight: 600; color: #665C5E">Thời lượng</span><span style="font-weight: 700; color: #161112">4:12</span></div><div style="display: flex; gap: 10px; min-height: 40px; align-items: center; border-bottom: 1px solid #ECE4E4; font-size: 14px"><span style="width: 104px; flex-shrink: 0; font-weight: 600; color: #665C5E">Chất lượng</span><span style="font-weight: 700; color: #161112">320 kbps <span style="margin-left: 6px; padding: 2px 7px; border-radius: 6px; background: #F8EDED; color: #8E1F1F; font-size: 12px; font-weight: 800">HQ</span></span></div><div style="display: flex; gap: 10px; min-height: 40px; align-items: center; font-size: 14px"><span style="width: 104px; flex-shrink: 0; font-weight: 600; color: #665C5E">Ngày đăng</span><span style="font-weight: 700; color: #161112">12/03/2023</span></div></div></div></div></div></div></main></div><!-- Ngăn phải 360 "Bên cạnh bài đang phát": Lời · Bình luận · Hàng đợi. Mặc định theo bài đang phát (ghim để giữ bài đang đọc). ≥1680 luôn mở; 1280–1679 bật/tắt; <1280 phủ lên nội dung, Esc đóng -->
 </div><!-- Thanh phát 96, tầng ngoài cùng: đổi trang không dừng nhạc. Trái: bài + nhãn lưu trữ · Giữa: điều khiển (phát 52) + thanh 6px (nở 10 khi rê) · Phải: nút CÓ CHỮ mở ngăn phải, âm lượng, toàn màn (F) -->
 <div style="height: 96px; flex-shrink: 0; border-top: 1px solid #ECE4E4; background: #fff; display: flex; align-items: center; padding: 0 24px; gap: 24px">
 <div style="width: 340px; display: flex; align-items: center; gap: 14px"><img src="/_blob/15d021a625e44f0e9ff37aae395a5ec2" alt="" style="width: 64px; height: 64px; border-radius: 10px; object-fit: cover"><span style="min-width: 0; display: flex; flex-direction: column; gap: 2px"><span style="font-size: 16px; font-weight: 800">Nơi đảo xa</span><span style="font-size: 14px; font-weight: 600; color: #4F4547">Tiến Thành · Thế Song</span><span style="font-size: 11px; font-weight: 800; letter-spacing: 0.6px; color: #665C5E">THU [1985] · ĐÀI TNVN</span></span><span style="margin-left: 4px; color: #8E1F1F"><svg width="24" height="24" viewBox="0 0 24 24" fill="currentColor" aria-hidden="true" style="flex-shrink: 0"><path d="M12 21.35l-1.45-1.32C5.4 15.36 2 12.28 2 8.5 2 5.42 4.42 3 7.5 3c1.74 0 3.41.81 4.5 2.09C13.09 3.81 14.76 3 16.5 3 19.58 3 22 5.42 22 8.5c0 3.78-3.4 6.86-8.55 11.54L12 21.35z"></path></svg></span></div>

diff --git a/design/canvas/project/BaiHat.dc.html b/design/canvas/project/BaiHat.dc.html
@@ -29,7 +29,7 @@ a{color:#8E1F1F;text-decoration:none}a:hover{color:#711313}
 
 <!-- Đầu trang (chốt 12/11, xem bảng "Bài hát · Phần đầu trang mobile"): ảnh vuông bo 18, không bóng, nút ⤢ góc dưới phải; không có ảnh → bìa đỏ rượu có rãnh đĩa than. Dòng trên: loại · năm · ghi chú; tên bài 26; tác giả dạng bảng, không gạch chân -->
 <div style="position: relative; width: 350px; height: 350px; border-radius: 18px; overflow: hidden"><img src="/_blob/15d021a625e44f0e9ff37aae395a5ec2" alt="Ảnh bài hát Nơi đảo xa" style="width: 100%; height: 100%; object-fit: cover; display: block"><span style="position: absolute; right: 10px; bottom: 10px; width: 30px; height: 30px; border-radius: 15px; background: rgba(0,0,0,.45); display: flex; align-items: center; justify-content: center"><svg width="16" height="16" viewBox="0 0 24 24" fill="#fff" aria-hidden="true"><path d="M21 11V3h-8l3.29 3.29-10 10L3 13v8h8l-3.29-3.29 10-10z"></path></svg></span></div>
-<div style="margin-top: 16px; font-size: 11px; font-weight: 800; letter-spacing: 1.1px; color: #665C5E">TÂN NHẠC · 1979</div>
+<div style="margin-top: 16px; font-size: 11px; font-weight: 800; letter-spacing: 1.1px; color: #665C5E">TÂN NHẠC · 1979 · <span style="text-transform: none; letter-spacing: 0.3px">bản 1</span></div>
 <div style="margin-top: 4px; font-size: 26px; font-weight: 800; line-height: 1.15; letter-spacing: -0.4px; color: #161112">Nơi đảo xa</div>
 <!-- Credits: bảng 2 cột (nhãn 78px · tên), tên dài/nhiều người tự xuống dòng -->
 <div style="margin-top: 10px"><div style="display: flex; align-items: flex-start; gap: 10px; padding: 3px 0"><span style="width: 78px; flex-shrink: 0; padding-top: 3px; font-size: 13px; font-weight: 600; color: #665C5E">Sáng tác</span><a href="NgheSi.dc.html" style="flex: 1; min-width: 0; font-size: 15px; font-weight: 700; line-height: 1.4; color: #8E1F1F; text-decoration: none">Thế Song</a></div><div style="display: flex; align-items: flex-start; gap: 10px; padding: 3px 0"><span style="width: 78px; flex-shrink: 0; padding-top: 3px; font-size: 13px; font-weight: 600; color: #665C5E">Trình bày</span><a href="NgheSi.dc.html" style="flex: 1; min-width: 0; font-size: 15px; font-weight: 700; line-height: 1.4; color: #8E1F1F; text-decoration: none">Tiến Thành</a></div></div>
@@ -43,7 +43,7 @@ a{color:#8E1F1F;text-decoration:none}a:hover{color:#711313}
 
 <!-- Labelled actions -->
 <div style="display: flex; margin-top: 16px">
-<button aria-label="61 thích" style="flex: 1; min-width: 0; border: none; background: transparent; padding: 4px 2px; font-family: Montserrat, sans-serif; letter-spacing: 0.25px; display: flex; flex-direction: column; align-items: center"><span style="width: 48px; height: 48px; border-radius: 24px; background: #F8EDED; display: flex; align-items: center; justify-content: center"><svg width="22" height="22" viewBox="0 0 24 24" fill="#8E1F1F" aria-hidden="true"><path d="M12 21.35l-1.45-1.32C5.4 15.36 2 12.28 2 8.5 2 5.42 4.42 3 7.5 3c1.74 0 3.41.81 4.5 2.09C13.09 3.81 14.76 3 16.5 3 19.58 3 22 5.42 22 8.5c0 3.78-3.4 6.86-8.55 11.54L12 21.35z"></path></svg></span><span style="margin-top: 7.5px; font-size: 12px; font-weight: 700; color: #4F4547; white-space: nowrap; overflow: hidden; text-overflow: ellipsis">61 thích</span></button>
+<button aria-label="61 thích" style="flex: 1; min-width: 0; border: none; background: transparent; padding: 4px 2px; font-family: Montserrat, sans-serif; letter-spacing: 0.25px; display: flex; flex-direction: column; align-items: center"><span style="width: 48px; height: 48px; border-radius: 24px; background: #F8EDED; display: flex; align-items: center; justify-content: center"><svg width="22" height="22" viewBox="0 0 24 24" fill="#D23B3B" aria-hidden="true"><path d="M12 21.35l-1.45-1.32C5.4 15.36 2 12.28 2 8.5 2 5.42 4.42 3 7.5 3c1.74 0 3.41.81 4.5 2.09C13.09 3.81 14.76 3 16.5 3 19.58 3 22 5.42 22 8.5c0 3.78-3.4 6.86-8.55 11.54L12 21.35z"></path></svg></span><span style="margin-top: 7.5px; font-size: 12px; font-weight: 700; color: #4F4547; white-space: nowrap; overflow: hidden; text-overflow: ellipsis">61 thích</span></button>
 <button aria-label="Đã tải" style="flex: 1; min-width: 0; border: none; background: transparent; padding: 4px 2px; font-family: Montserrat, sans-serif; letter-spacing: 0.25px; display: flex; flex-direction: column; align-items: center"><span style="width: 48px; height: 48px; border-radius: 24px; background: #F8EDED; display: flex; align-items: center; justify-content: center"><svg width="22" height="22" viewBox="0 0 24 24" fill="#8E1F1F" aria-hidden="true"><path d="M5 18h14v2H5v-2zm4.6-2.7L5 10.7l2-1.9 2.6 2.6L17 4l2 2-9.4 9.3z"></path></svg></span><span style="margin-top: 7.5px; font-size: 12px; font-weight: 700; color: #4F4547; white-space: nowrap; overflow: hidden; text-overflow: ellipsis">Đã tải</span></button>
 <button aria-label="Lưu" style="flex: 1; min-width: 0; border: none; background: transparent; padding: 4px 2px; font-family: Montserrat, sans-serif; letter-spacing: 0.25px; display: flex; flex-direction: column; align-items: center"><span style="width: 48px; height: 48px; border-radius: 24px; background: #F4F1F0; display: flex; align-items: center; justify-content: center"><svg width="22" height="22" viewBox="0 0 24 24" fill="#161112" aria-hidden="true"><path d="M14 10H3v2h11v-2zm0-4H3v2h11V6zm4 8v-4h-2v4h-4v2h4v4h2v-4h4v-2h-4zM3 16h7v-2H3v2z"></path></svg></span><span style="margin-top: 7.5px; font-size: 12px; font-weight: 700; color: #4F4547; white-space: nowrap; overflow: hidden; text-overflow: ellipsis">Lưu</span></button>
 <!-- 12/11: "Bản thu" (lịch sử bản thu) chuyển vào ⋯; chỗ này thành "Thông tin" (mở Thông tin bản thu) --><button aria-label="Thông tin bản thu" style="flex: 1; min-width: 0; border: none; background: transparent; padding: 4px 2px; font-family: Montserrat, sans-serif; letter-spacing: 0.25px; display: flex; flex-direction: column; align-items: center"><span style="width: 48px; height: 48px; border-radius: 24px; background: #F4F1F0; display: flex; align-items: center; justify-content: center"><svg width="22" height="22" viewBox="0 0 24 24" fill="#161112" aria-hidden="true"><path d="M11 7h2v2h-2zm0 4h2v6h-2zm1-9C6.48 2 2 6.48 2 12s4.48 10 10 10 10-4.48 10-10S17.52 2 12 2zm0 18c-4.41 0-8-3.59-8-8s3.59-8 8-8 8 3.59 8 8-3.59 8-8 8z"></path></svg></span><span style="margin-top: 7.5px; font-size: 12px; font-weight: 700; color: #4F4547; white-space: nowrap; overflow: hidden; text-overflow: ellipsis">Thông tin</span></button>
